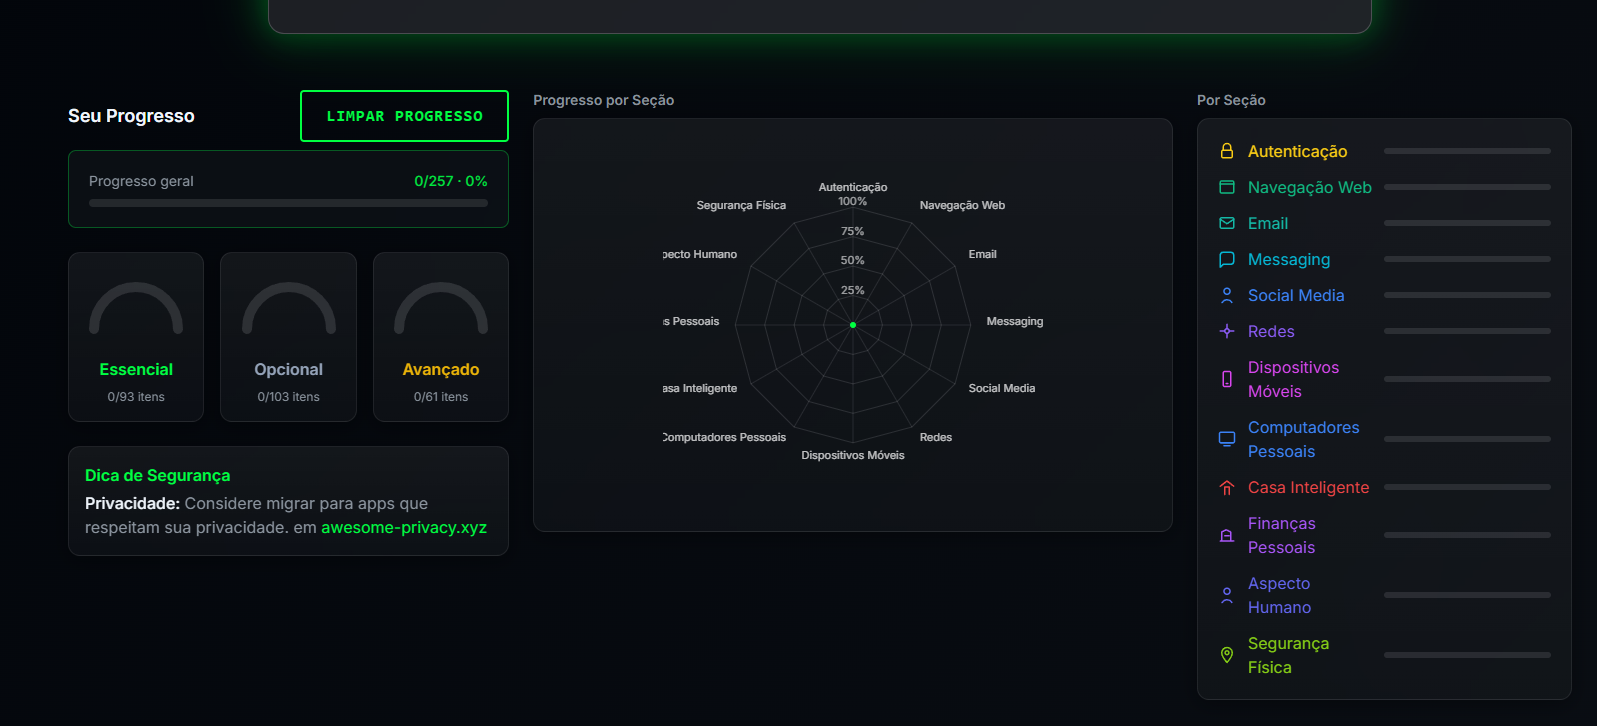
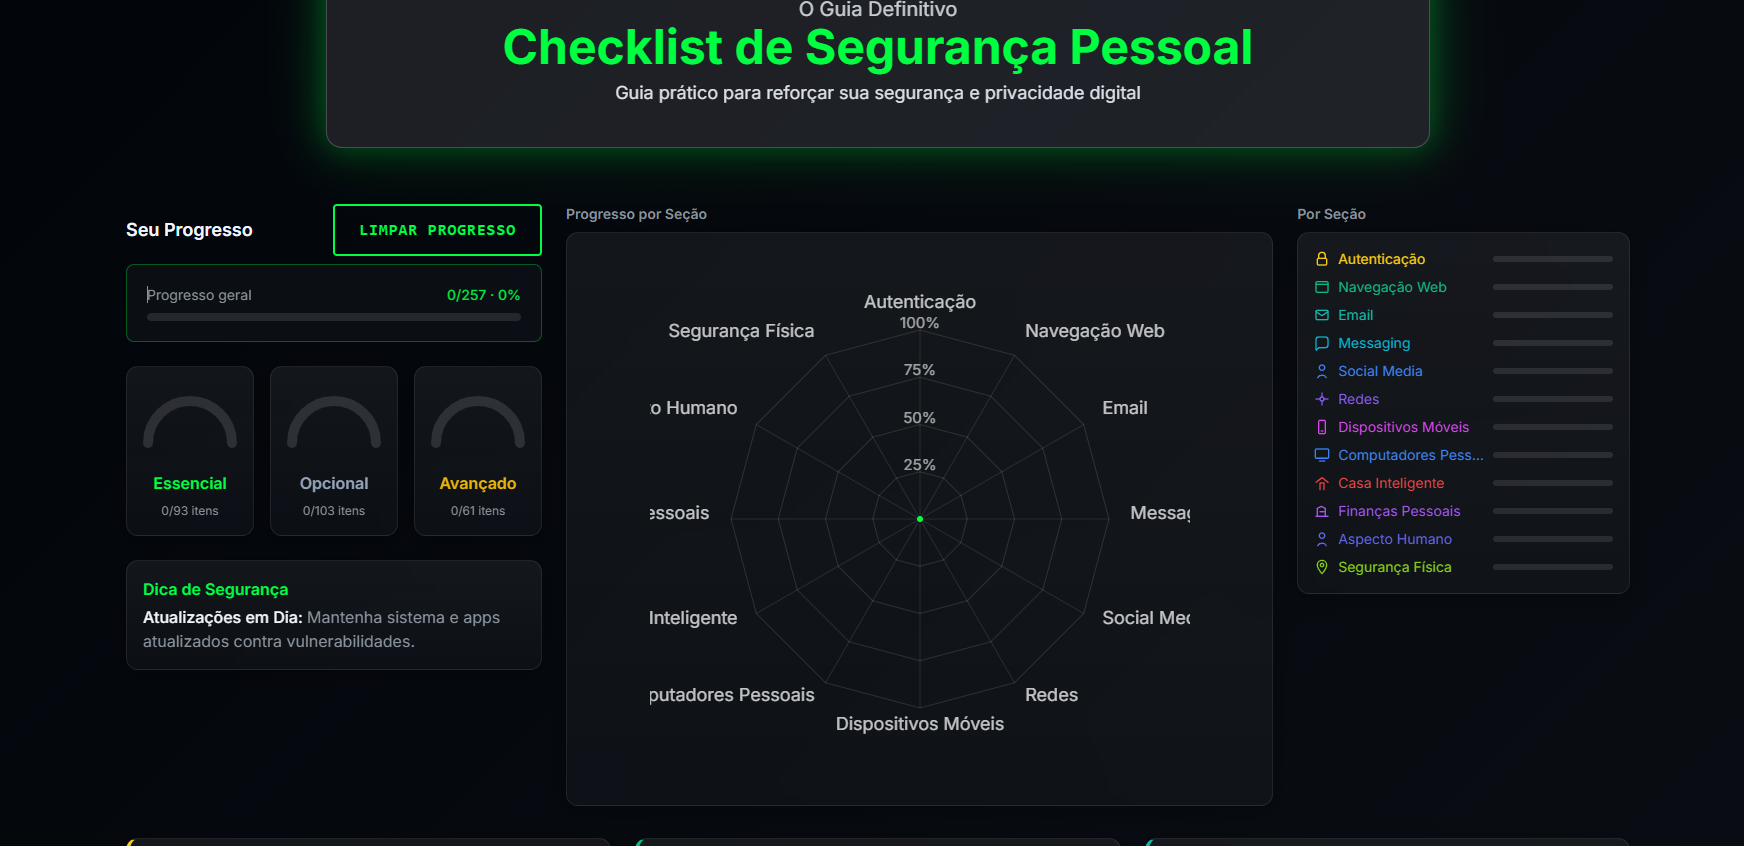
feat/psc: Removido grafico Por Seção
- Removido “Por Seção” do dashboard:
      - src/app/tools/personal-security-checklist/page.tsx
      - Dashboard agora tem 2 colunas: painel esquerdo e radar, com grid proporcional: minmax(320px,1fr) minmax(540px,2fr).
  - Radar sem cortes e responsivo:
      - Usa ResizeObserver para ajustar o tamanho ao card.
      - Diminui o raio (32% do size) e traz os rótulos para dentro do círculo (offset interno), reduzindo o risco de corte em bordas.
      - Fontes dos rótulos escalonadas por largura.
      - src/components/psc/RadarChart.tsx
  - Títulos no dashboard mantidos:
      - “Seu Progresso” e “Progresso por Seção”.

  Resultado esperado

  - O radar ocupa mais área e não corta “Aspecto Humano”, “Finanças Pessoais”, “Casa Inteligente” e “Computadores Pessoais”.
  - Layout menos “poluído”, com a redundância removida.

diff --git a/src/app/tools/personal-security-checklist/page.tsx b/src/app/tools/personal-security-checklist/page.tsx
@@ -2,7 +2,6 @@ import SectionLinkGrid from '@/components/psc/SectionLinkGrid'
 import OverallProgress from '@/components/psc/OverallProgress'
 import PriorityDashboard from '@/components/psc/PriorityDashboard'
 import ClearProgressButton from '@/components/psc/ClearProgressButton'
-import SectionProgressList from '@/components/psc/SectionProgressList'
 import RadarChart from '@/components/psc/RadarChart'
 import SecurityTipsCard from '@/components/psc/SecurityTipsCard'
 import { loadPscSections } from '@/lib/psc-data'
@@ -38,8 +37,8 @@ export default function PSCIndexPage() {
           </div>
         ) : (
           <>
-            {/* Dashboard row */}
-            <div className="grid gap-6 mb-8" style={{ gridTemplateColumns: 'minmax(320px,1fr) minmax(420px,1.7fr) minmax(260px,0.8fr)' }}>
+            {/* Dashboard row (2 colunas para dar mais espaço ao radar) */}
+            <div className="grid gap-6 mb-8" style={{ gridTemplateColumns: 'minmax(320px,1fr) minmax(540px,2fr)' }}>
               <div className="space-y-6">
                 <div>
                   <div className="flex items-center justify-between mb-2">
@@ -54,10 +53,6 @@ export default function PSCIndexPage() {
               <div className="">
                 <h2 className="text-sm font-semibold text-text-muted mb-2">Progresso por Seção</h2>
                 <RadarChart sections={sections} />
-              </div>
-              <div className="">
-                <h2 className="text-sm font-semibold text-text-muted mb-2">Por Seção</h2>
-                <SectionProgressList sections={sections} />
               </div>
             </div>
 

diff --git a/src/components/psc/RadarChart.tsx b/src/components/psc/RadarChart.tsx
@@ -39,7 +39,7 @@ export default function RadarChart({ sections }: Props) {
 
   const cx = size / 2
   const cy = size / 2
-  const radius = size * 0.35
+  const radius = size * 0.32
   const levels = [25, 50, 75, 100]
   const count = Math.max(1, sections.length)
 
@@ -91,11 +91,12 @@ export default function RadarChart({ sections }: Props) {
         {/* Section labels around */}
         {sections.map((s, i) => {
           const a = angleFor(i)
-          const lx = cx + (radius + Math.max(12, size * 0.04)) * Math.cos(a)
-          const ly = cy + (radius + Math.max(12, size * 0.04)) * Math.sin(a)
+          const offset = Math.max(8, size * 0.02)
+          const lx = cx + (radius - offset) * Math.cos(a)
+          const ly = cy + (radius - offset) * Math.sin(a)
           const anchor = Math.cos(a) > 0.35 ? 'start' : Math.cos(a) < -0.35 ? 'end' : 'middle'
           return (
-            <text key={`lbl-${s.slug}`} x={lx} y={ly} fill="rgba(255,255,255,0.75)" fontSize={Math.max(10, Math.round(size * 0.034))} textAnchor={anchor as any}>
+            <text key={`lbl-${s.slug}`} x={lx} y={ly} fill="rgba(255,255,255,0.75)" fontSize={Math.max(10, Math.round(size * 0.03))} textAnchor={anchor as any}>
               {s.title}
             </text>
           )
